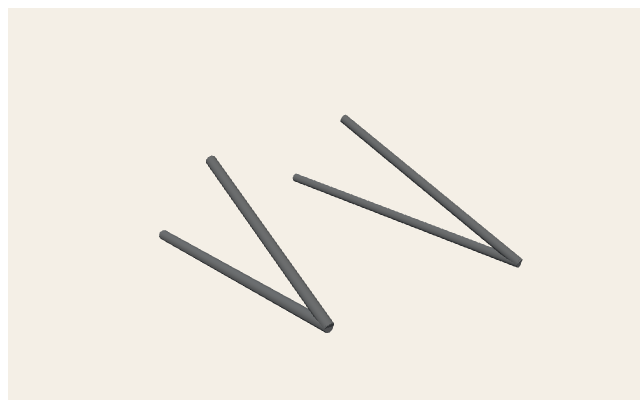
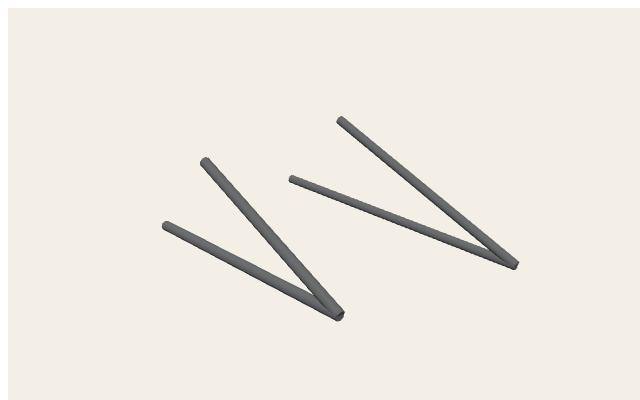
v0.3.244: Sit Käferkraft viewer-left waist on the new BodyPaint span

Changed region(s): [[0.25, 0.51, 0.5625, 0.84], [0.4375, 0.27, 0.8125, 0.69], [0.3125, 0.39, 0.375, 0.51]]

diff --git a/tests/kaeferkraft-pole-frame.test.ts b/tests/kaeferkraft-pole-frame.test.ts
@@ -5,16 +5,11 @@ import { buildReinforcedFrame } from "../src/render/carPartBuilders";
 
 const POLE_R = 0.025;
 const INTO = 0.08;
-/** Viewer-right from behind (+Z). 1.5× rail diameter. */
-const RIGHT_OUTBOARD = 1.5 * (POLE_R * 2);
 
-/** BodyPaint garage picks — right rail is then nudged outboard. */
+/** BodyPaint garage picks. +Z is viewer-left from behind. */
 const WAIST_PICKS = [
   { front: new Vector3(-0.551, 1.029, -0.49), rear: new Vector3(0.799, 0.947, -0.498) },
-  {
-    front: new Vector3(-0.534, 1.001, 0.454 + RIGHT_OUTBOARD),
-    rear: new Vector3(0.553, 1.015, 0.564 + RIGHT_OUTBOARD),
-  },
+  { front: new Vector3(-0.504, 1.061, 0.49), rear: new Vector3(0.579, 1.063, 0.57) },
 ] as const;
 
 function cylinderEnds(node: GltfNode): [Vector3, Vector3] {
@@ -71,10 +66,6 @@ function expectWaistCoversPicks(endsByZ: [Vector3, Vector3][]): void {
     expect(projectT(pick.rear, front, rear)).toBeGreaterThan(0.8);
     expect(projectT(pick.rear, front, rear)).toBeLessThan(0.98);
   }
-  const right = endsByZ.find((ends) => ends[0].z + ends[1].z > 0);
-  expect(right).toBeTruthy();
-  const originalFront = new Vector3(-0.534, 1.001, 0.454);
-  expect(distToSegment(originalFront, right![0], right![1])).toBeCloseTo(RIGHT_OUTBOARD, 2);
 }
 
 describe("Käferkraft pole-frame waist", () => {

diff --git a/src/render/carPartBuilders.ts b/src/render/carPartBuilders.ts
@@ -204,14 +204,10 @@ export function buildReinforcedFrame(
     // Same spec as scripts/bake-kaeferkraft-pole-frame.mjs (stock cage r ≈ 0.025).
     const r = 0.025;
     const into = 0.08;
-    const rightOutboard = 1.5 * (r * 2);
     const cageFrontTop = { x: -0.24, y: 1.48, z: 0.48 };
     const spans: { front: PoleEnd; rear: PoleEnd }[] = [
       { front: [-0.551, 1.029, -0.49], rear: [0.799, 0.947, -0.498] },
-      {
-        front: [-0.534, 1.001, 0.454 + rightOutboard],
-        rear: [0.553, 1.015, 0.564 + rightOutboard],
-      },
+      { front: [-0.504, 1.061, 0.49], rear: [0.579, 1.063, 0.57] },
     ];
     for (const span of spans) {
       const [front, rear] = extendPoleIntoFrame(span.front, span.rear, into);

diff --git a/e2e/kaeferkraft-waist.spec.ts b/e2e/kaeferkraft-waist.spec.ts
@@ -97,6 +97,7 @@ test.describe("Käferkraft waist poles", () => {
     expect(right!.mid[0]).toBeLessThan(0.15);
     expect(left!.half).toBeGreaterThan(0.7);
     expect(right!.half).toBeGreaterThan(0.55);
-    expect(right!.mid[2]).toBeGreaterThan(0.55);
+    expect(right!.mid[2]).toBeGreaterThan(0.5);
+    expect(right!.mid[2]).toBeLessThan(0.58);
   });
 });

diff --git a/src/core/version.ts b/src/core/version.ts
@@ -1,5 +1,5 @@
 /** Mirrors package.json version — bump both on each implementation step. */
-export const APP_VERSION = "0.3.243";
+export const APP_VERSION = "0.3.244";
 
 /** Short player-visible credit — German UI, near version / Hilfe. */
 export const APP_CREDIT = "Mit KI erstellt · menschliche Anleitung";

diff --git a/.cursor/cheatsheets/car-kaeferkraft.md b/.cursor/cheatsheets/car-kaeferkraft.md
@@ -229,7 +229,7 @@ Orange boxes = mesh AABBs. Green dots = Teil **mount anchors** (`CAR_PART_LAYOUT
 
 ## Waist anchor picker
 
-Picker is a candidate grid. Live `Waist` poles follow BodyPaint picks (left −0.551→0.799, right −0.534→0.553 then +1.5× rail width toward viewer-right); caps bury 8 cm into the hull.
+Picker is a candidate grid. Live `Waist`: viewer-right from behind (−Z) −0.551→0.799; viewer-left from behind (+Z) −0.504→0.579. Caps bury 8 cm into the hull.
 
 ![Käferkraft Waist anchors](../../assets/tripo-concepts/kaeferkraft-waist-anchors.png)
 
@@ -366,7 +366,7 @@ Root AABB (-0.555, 0, -0.605) → (0.555, 0.4, 0.605)
 
 ![public/models/parts/kaeferkraft-reinforced_frame.glb](./img/part-kaeferkraft-reinforced_frame.png)
 
-Root AABB (-0.632, 0.917, -0.523) → (0.89, 1.503, 0.672)
+Root AABB (-0.632, 0.917, -0.523) → (0.89, 1.503, 0.601)
 
 <svg xmlns="http://www.w3.org/2000/svg" width="760" height="520" viewBox="0 0 760 520">
 <rect x="0" y="0" width="760" height="520" fill="#f4efe6"/>
@@ -419,10 +419,10 @@ Root AABB (-0.632, 0.917, -0.523) → (0.89, 1.503, 0.672)
 <text x="420.3" y="312.8" text-anchor="middle" font-size="10" font-family="ui-sans-serif,sans-serif" font-weight="700" fill="#1a1a1a">Waist</text>
 <rect x="356.0" y="308.5" width="195.6" height="7.6" fill="#f08c0033" stroke="#f08c00" stroke-width="1.6"/>
 <text x="453.8" y="312.3" text-anchor="middle" font-size="10" font-family="ui-sans-serif,sans-serif" font-weight="700" fill="#1a1a1a">WaistToFrontTop</text>
-<rect x="293.3" y="183.4" width="214.6" height="19.5" fill="#f08c0033" stroke="#f08c00" stroke-width="1.6"/>
-<text x="400.6" y="193.2" text-anchor="middle" font-size="10" font-family="ui-sans-serif,sans-serif" font-weight="700" fill="#1a1a1a">Waist</text>
-<rect x="355.8" y="183.5" width="153.8" height="24.0" fill="#f08c0033" stroke="#f08c00" stroke-width="1.6"/>
-<text x="432.7" y="195.4" text-anchor="middle" font-size="10" font-family="ui-sans-serif,sans-serif" font-weight="700" fill="#1a1a1a">WaistToFrontTop</text>
+<rect x="298.6" y="191.3" width="213.7" height="15.7" fill="#f08c0033" stroke="#f08c00" stroke-width="1.6"/>
+<text x="405.4" y="199.2" text-anchor="middle" font-size="10" font-family="ui-sans-serif,sans-serif" font-weight="700" fill="#1a1a1a">Waist</text>
+<rect x="356.0" y="191.3" width="157.8" height="16.2" fill="#f08c0033" stroke="#f08c00" stroke-width="1.6"/>
+<text x="434.9" y="199.4" text-anchor="middle" font-size="10" font-family="ui-sans-serif,sans-serif" font-weight="700" fill="#1a1a1a">WaistToFrontTop</text>
 <text x="380" y="22" text-anchor="middle" font-size="14" font-family="ui-sans-serif,sans-serif" font-weight="800" fill="#1a1a1a">public/models/parts/kaeferkraft-reinforced_frame.glb — top XZ</text>
 <text x="380" y="512" text-anchor="middle" font-size="11" font-family="ui-sans-serif,sans-serif" fill="#5c564c">+X → right · +Z → up · origin = red (+X) / blue (+Z) · meters</text>
 </svg>
@@ -431,8 +431,8 @@ Root AABB (-0.632, 0.917, -0.523) → (0.89, 1.503, 0.672)
 | --- | --- | --- | --- | --- | --- | --- |
 | `Waist` | `Waist` | 1 | 52 | (0.124, 0.988, -0.494) | (-0.632, 0.917, -0.523) → (0.88, 1.059, -0.465) | Grey |
 | `WaistToFrontTop` | `WaistToFrontTop` | 1 | 52 | (0.319, 1.211, -0.489) | (-0.251, 0.92, -0.523) → (0.89, 1.503, -0.455) | Grey |
-| `Waist` | `Waist` | 1 | 52 | (0.009, 1.008, 0.584) | (-0.616, 0.975, 0.496) → (0.635, 1.041, 0.672) | Grey |
-| `WaistToFrontTop` | `WaistToFrontTop` | 1 | 52 | (0.196, 1.248, 0.564) | (-0.252, 0.994, 0.455) → (0.645, 1.502, 0.672) | Grey |
+| `Waist` | `Waist` | 1 | 52 | (0.037, 1.062, 0.53) | (-0.586, 1.036, 0.459) → (0.661, 1.088, 0.601) | Grey |
+| `WaistToFrontTop` | `WaistToFrontTop` | 1 | 52 | (0.209, 1.272, 0.528) | (-0.251, 1.041, 0.455) → (0.669, 1.503, 0.601) | Grey |
 
 ## Part / extra `public/models/parts/kaeferkraft-lightweight_body.glb`
 

diff --git a/assets/tripo-concepts/kaeferkraft-waist-anchors.md b/assets/tripo-concepts/kaeferkraft-waist-anchors.md
@@ -1,6 +1,6 @@
 # Käferkraft `Waist` anchor picker
 
-Pick **front + rear** IDs per side. Mesh space, meters, **nose −X**. Left `z ≈ −0.49`, right `z ≈ +0.53…0.64` (picks + 1.5× rail width outboard).
+Pick **front + rear** IDs per side. Mesh space, meters, **nose −X**. Viewer-left from behind is **+Z** `(0.490…0.570)`; viewer-right is **−Z**.
 
 ![Käferkraft Waist anchors](./kaeferkraft-waist-anchors.png)
 
@@ -8,8 +8,8 @@ Red ring on the sheet is a **candidate grid** — live poles use BodyPaint garag
 
 | Side | Front (nose −X) | Rear |
 | --- | --- | --- |
-| Left −Z | (−0.551, 1.029, −0.490) | (0.799, 0.947, −0.498) |
-| Right +Z (BodyPaint + 1.5× width toward viewer-right) | (−0.534, 1.001, 0.529) | (0.553, 1.015, 0.639) |
+| Viewer-right from behind (−Z) | (−0.551, 1.029, −0.490) | (0.799, 0.947, −0.498) |
+| Viewer-left from behind (+Z) | (−0.504, 1.061, 0.490) | (0.579, 1.063, 0.570) |
 
 | ID | x | y | z | Meaning |
 | --- | --- | --- | --- | --- |
